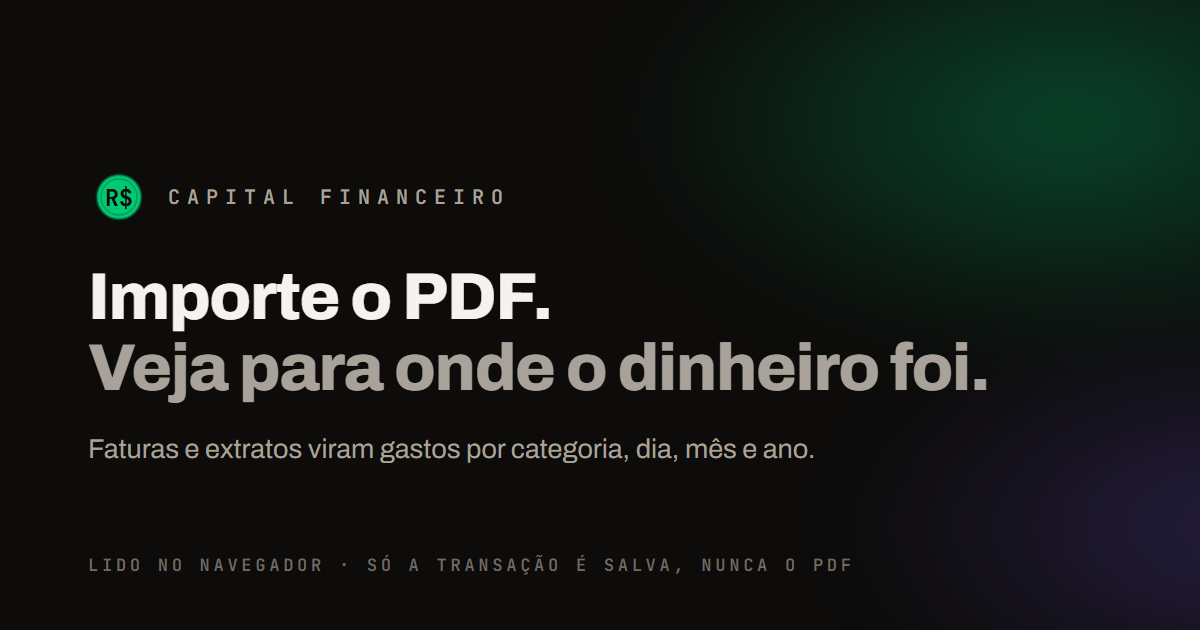
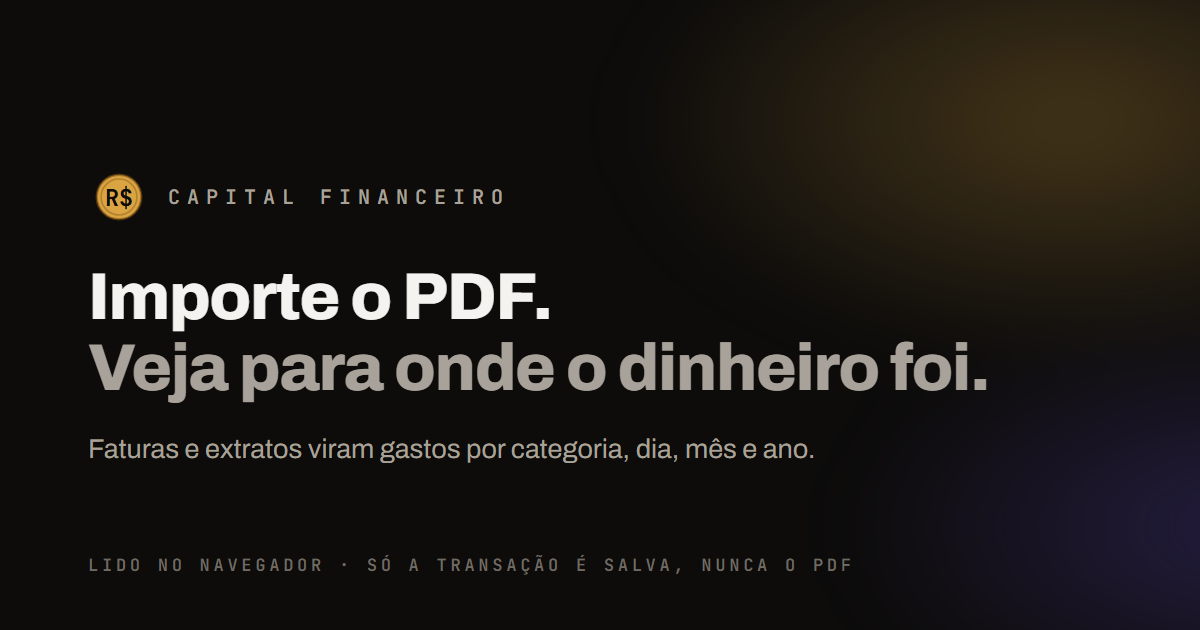
feat: paleta ambar, toasts com presenca de dialogo e login trabalhado
Cor: o verde neon sai da identidade. Nova variavel --color-marca (ambar
#d9a441 no escuro, #9a6a15 no claro) assume logotipo, favicon, moeda R$,
ponto pulsante, foco dos campos e card de compartilhamento.

--color-confere NAO virou ambar de proposito: ela carrega semantica de "o
total bate", e ambar ja era a cor de ressalva — as duas juntas fariam o
toast de sucesso parecer aviso. Ficou verde-oliva dessaturado (#6b8f4e),
que cabe no cafe sem o neon; verde=certo/vermelho=errado e leitura
aprendida e nao vale trocar. Ressalva e falha tambem foram reaquecidas.

Toasts: largura fixa de 30rem, mais respiro, titulo em Archivo e icone
maior — presenca de dialogo, como pedido. Acrescentado o unico toast que
faltava de fato: o de sair do sistema (os de apagar, criar e atualizar ja
existiam).

Login: campos com raio de 12px, mais altura, hover na borda e foco que
eleva o campo. O anel ambar do foco exigiu remover os utilitarios
focus:shadow/ring que eu mesmo tinha posto — eles sobrescreviam a regra
base do index.css e apagavam o anel.

Rodape: assinatura em corpo maior, peso semibold e cor da marca.

Changed region(s): [[0.6783, 0.0, 1.0, 0.4222], [0.0617, 0.2714, 0.1233, 0.3619]]

diff --git a/src/ui/Auth.tsx b/src/ui/Auth.tsx
@@ -134,7 +134,7 @@ export function Auth({ onAutenticado }: Props) {
               placeholder="nome e sobrenome"
               value={nome}
               onChange={(e) => setNome(e.target.value)}
-              className="w-full rounded-sm border border-carvao-700 bg-carvao-950 px-3 py-2 text-sm text-tinta outline-none focus:border-tinta-tenue"
+              className="w-full rounded-xl border border-carvao-700 bg-carvao-950 px-4 py-3 text-sm text-tinta outline-none transition-all placeholder:text-tinta-tenue hover:border-carvao-600 focus:-translate-y-px focus:border-marca"
             />
             <div>
               <input
@@ -142,7 +142,7 @@ export function Auth({ onAutenticado }: Props) {
                 placeholder="como quer ser chamado? (apelido, opcional)"
                 value={apelido}
                 onChange={(e) => setApelido(e.target.value)}
-                className="w-full rounded-sm border border-carvao-700 bg-carvao-950 px-3 py-2 text-sm text-tinta outline-none focus:border-tinta-tenue"
+                className="w-full rounded-xl border border-carvao-700 bg-carvao-950 px-4 py-3 text-sm text-tinta outline-none transition-all placeholder:text-tinta-tenue hover:border-carvao-600 focus:-translate-y-px focus:border-marca"
               />
               <p className="mt-1 px-1 text-[11px] text-tinta-tenue">
                 É assim que vamos te saudar. Se deixar em branco, usamos seu primeiro nome.
@@ -157,7 +157,7 @@ export function Auth({ onAutenticado }: Props) {
           placeholder="seu@email.com"
           value={email}
           onChange={(e) => setEmail(e.target.value)}
-          className="w-full rounded-sm border border-carvao-700 bg-carvao-950 px-3 py-2 text-sm text-tinta outline-none focus:border-tinta-tenue"
+          className="w-full rounded-xl border border-carvao-700 bg-carvao-950 px-4 py-3 text-sm text-tinta outline-none transition-all placeholder:text-tinta-tenue hover:border-carvao-600 focus:-translate-y-px focus:border-marca"
         />
         <div className="relative">
           <input
@@ -168,7 +168,7 @@ export function Auth({ onAutenticado }: Props) {
             placeholder="senha (mín. 8 caracteres)"
             value={senha}
             onChange={(e) => setSenha(e.target.value)}
-            className="w-full rounded-sm border border-carvao-700 bg-carvao-950 px-3 py-2 pr-10 text-sm text-tinta outline-none focus:border-tinta-tenue"
+            className="w-full rounded-xl border border-carvao-700 bg-carvao-950 px-4 py-3 pr-11 text-sm text-tinta outline-none transition-all placeholder:text-tinta-tenue hover:border-carvao-600 focus:-translate-y-px focus:border-marca"
           />
           <button
             type="button"
@@ -183,7 +183,7 @@ export function Auth({ onAutenticado }: Props) {
         <button
           type="submit"
           disabled={ocupado}
-          className="w-full rounded-sm bg-tinta px-4 py-2 text-sm font-medium text-carvao-950 transition-opacity hover:opacity-90 disabled:opacity-50"
+          className="w-full rounded-xl bg-tinta px-4 py-3 text-sm font-semibold text-carvao-950 shadow-lg shadow-black/20 transition-all hover:-translate-y-0.5 hover:shadow-xl hover:shadow-black/30 active:translate-y-0 disabled:translate-y-0 disabled:opacity-50 disabled:shadow-none"
         >
           {ocupado ? '…' : modo === 'entrar' ? 'Entrar' : 'Criar conta'}
         </button>
@@ -197,7 +197,7 @@ export function Auth({ onAutenticado }: Props) {
 
       <button
         onClick={comGoogle}
-        className="flex w-full items-center justify-center gap-2 rounded-sm border border-carvao-700 px-4 py-2 text-sm text-tinta transition-colors hover:bg-carvao-850"
+        className="flex w-full items-center justify-center gap-2 rounded-xl border border-carvao-700 px-4 py-3 text-sm text-tinta transition-all hover:-translate-y-0.5 hover:border-carvao-600 hover:bg-carvao-850 hover:shadow-lg hover:shadow-black/20 active:translate-y-0"
       >
         <GoogleIcon /> Continuar com o Google
       </button>
@@ -223,7 +223,7 @@ export function Auth({ onAutenticado }: Props) {
 function MoedaLogo() {
   return (
     <svg width="56" height="56" viewBox="0 0 64 64" className="drop-shadow-lg" aria-hidden>
-      <circle cx="32" cy="32" r="23" fill="var(--color-confere)" />
+      <circle cx="32" cy="32" r="23" fill="var(--color-marca)" />
       <circle cx="32" cy="32" r="23" fill="none" stroke="#065f37" strokeWidth="2.5" opacity="0.55" />
       <circle cx="32" cy="32" r="18.5" fill="none" stroke="#065f37" strokeWidth="1.6" opacity="0.4" />
       <text

diff --git a/src/App.tsx b/src/App.tsx
@@ -130,7 +130,7 @@ export default function App() {
               className="tabular flex items-center gap-2 text-[11px] uppercase tracking-[0.35em] text-tinta-tenue"
             >
               <motion.span
-                className="inline-block h-1.5 w-1.5 rounded-full bg-confere"
+                className="inline-block h-1.5 w-1.5 rounded-full bg-marca"
                 animate={{ opacity: [1, 0.3, 1], scale: [1, 0.8, 1] }}
                 transition={{ duration: 2.4, repeat: Infinity, ease: 'easeInOut' }}
               />
@@ -178,9 +178,21 @@ export default function App() {
                   setMostrarTutorial(true)
                 }}
                 onSair={async () => {
-                  await neon?.auth.signOut()
-                  setLogado(false)
-                  setUsuario(null)
+                  // Saudação pelo mesmo nome usado no cabeçalho, para a
+                  // despedida soar como continuação da conversa.
+                  const quem = comoChamar(usuario?.nome, usuario?.email)
+                  try {
+                    await neon?.auth.signOut()
+                    setLogado(false)
+                    setUsuario(null)
+                    toast.success(`Até logo, ${quem}!`, {
+                      description: 'Sua sessão foi encerrada neste navegador.',
+                    })
+                  } catch (err) {
+                    toast.error(
+                      err instanceof Error ? err.message : 'Não consegui encerrar a sessão.',
+                    )
+                  }
                 }}
               />
             )}
@@ -229,13 +241,17 @@ export default function App() {
             </p>
             <span className="h-px flex-1 bg-carvao-800" />
           </div>
-          <p className="text-center text-[11px] text-tinta-tenue">
-            <span className="tabular">© {new Date().getFullYear()}</span> · Criado por{' '}
+          <p className="flex flex-wrap items-center justify-center gap-x-2 gap-y-1 text-center text-xs text-tinta-tenue">
+            <span className="tabular">© {new Date().getFullYear()}</span>
+            <span aria-hidden>·</span>
+            <span>Criado por</span>
+            {/* A assinatura é o único nome próprio da página: ganha corpo,
+                peso e a cor da marca para não se perder no rodapé. */}
             <a
               href="https://cielio-portfolio.vercel.app/"
               target="_blank"
               rel="noopener noreferrer"
-              className="font-medium text-tinta-fraca underline decoration-carvao-600 underline-offset-4 transition-colors hover:text-tinta hover:decoration-tinta"
+              className="font-display text-base font-semibold text-marca underline decoration-marca/40 underline-offset-4 transition-all hover:decoration-marca hover:brightness-110"
             >
               Cielio Queiroz
             </a>

diff --git a/src/ui/Notificacoes.tsx b/src/ui/Notificacoes.tsx
@@ -11,10 +11,10 @@ function Icone({ tipo }: { tipo: 'ok' | 'erro' | 'aviso' | 'info' }) {
   }[tipo]
   return (
     <span
-      className="grid h-8 w-8 shrink-0 place-items-center rounded-full bg-white shadow-sm"
+      className="grid h-10 w-10 shrink-0 place-items-center rounded-full bg-white shadow-md"
       style={{ color: cfg.cor }}
     >
-      <svg viewBox="0 0 24 24" className="h-5 w-5" fill="none" stroke="currentColor" strokeWidth="2.6" strokeLinecap="round" strokeLinejoin="round">
+      <svg viewBox="0 0 24 24" className="h-6 w-6" fill="none" stroke="currentColor" strokeWidth="2.6" strokeLinecap="round" strokeLinejoin="round">
         <path d={cfg.d} />
       </svg>
     </span>
@@ -31,13 +31,16 @@ export function Notificacoes() {
       offset={28}
       gap={12}
       duration={4500}
+      // Largura fixa e generosa: o toast ocupa o eixo central como um
+      // diálogo, em vez de encolher para o tamanho do texto.
+      style={{ width: 'min(30rem, calc(100vw - 2rem))' }}
       toastOptions={{
         unstyled: true,
         classNames: {
           toast:
-            'flex w-full items-center gap-3 rounded-2xl px-5 py-4 shadow-2xl shadow-black/40 ring-1 ring-black/10',
-          title: 'font-sans text-sm font-bold leading-snug',
-          description: 'font-sans text-xs font-medium leading-snug opacity-90',
+            'flex w-full items-center gap-4 rounded-2xl px-6 py-5 shadow-2xl shadow-black/50 ring-1 ring-black/15',
+          title: 'font-display text-[15px] font-bold leading-snug tracking-tight',
+          description: 'font-sans text-[13px] font-medium leading-snug opacity-90',
           icon: 'shrink-0',
           actionButton: 'rounded-lg bg-black/20 px-2.5 py-1 text-xs font-semibold',
           cancelButton: 'text-xs opacity-80',

diff --git a/src/index.css b/src/index.css
@@ -21,9 +21,17 @@
   --color-tinta-fraca: #a8a29a;
   --color-tinta-tenue: #6f6a62;
 
-  --color-confere: #00c974;
-  --color-ressalva: #f5a623;
-  --color-falha: #ff4d4f;
+  /* Marca — âmbar/dourado. Cor de identidade (logotipo, favicon, foco,
+     ponto pulsante). É separada de --color-confere de propósito: aquela
+     carrega SEMÂNTICA de "o total bate", e misturar as duas faria o toast
+     de sucesso parecer aviso. */
+  --color-marca: #d9a441;
+
+  /* Estados. O verde de "confere" ficou dessaturado para caber no café —
+     verde=certo/vermelho=errado é leitura aprendida e não vale trocar. */
+  --color-confere: #6b8f4e;
+  --color-ressalva: #c8862a;
+  --color-falha: #d64545;
 
   /* Partículas do fundo animado. Variável própria porque o fundo não deve
      seguir a cor de "confere" (verde de sucesso) — são coisas diferentes, e
@@ -51,6 +59,12 @@
 
   --color-particula: #6b5744; /* cafe sobre o creme */
   --particula-alfa: 0.30;
+
+  /* Sobre o creme, os tons claros não têm contraste: escurecem no tema claro. */
+  --color-marca: #9a6a15;
+  --color-confere: #4f6b39;
+  --color-ressalva: #9c6415;
+  --color-falha: #b3323a;
   color-scheme: light;
 }
 
@@ -107,8 +121,8 @@ body {
   textarea:focus,
   select:focus {
     outline: none;
-    border-color: color-mix(in oklab, var(--color-confere) 55%, var(--color-carvao-600));
-    box-shadow: 0 0 0 3px color-mix(in oklab, var(--color-confere) 20%, transparent);
+    border-color: color-mix(in oklab, var(--color-marca) 60%, var(--color-carvao-600));
+    box-shadow: 0 0 0 3px color-mix(in oklab, var(--color-marca) 22%, transparent);
   }
 
   /* Clicáveis ganham uma transição suave para o hover ficar gostoso. */

diff --git a/scripts/og-card.html b/scripts/og-card.html
@@ -25,7 +25,7 @@
       .brilho {
         position: absolute; inset: -20%;
         background:
-          radial-gradient(38% 38% at 78% 28%, rgba(0, 201, 116, 0.30), transparent 70%),
+          radial-gradient(38% 38% at 78% 28%, rgba(217, 164, 65, 0.28), transparent 70%),
           radial-gradient(34% 34% at 88% 74%, rgba(124, 92, 255, 0.22), transparent 70%);
         filter: blur(40px);
       }
@@ -63,9 +63,9 @@
     <div class="conteudo">
       <div class="marca">
         <svg width="62" height="62" viewBox="0 0 64 64">
-          <circle cx="32" cy="32" r="23" fill="#00c974" />
-          <circle cx="32" cy="32" r="23" fill="none" stroke="#065f37" stroke-width="2.5" opacity="0.55" />
-          <circle cx="32" cy="32" r="18.5" fill="none" stroke="#065f37" stroke-width="1.6" opacity="0.4" />
+          <circle cx="32" cy="32" r="23" fill="#d9a441" />
+          <circle cx="32" cy="32" r="23" fill="none" stroke="#7a4e12" stroke-width="2.5" opacity="0.55" />
+          <circle cx="32" cy="32" r="18.5" fill="none" stroke="#7a4e12" stroke-width="1.6" opacity="0.4" />
           <text x="32" y="41.5" text-anchor="middle" font-family="'JetBrains Mono', monospace"
                 font-weight="800" font-size="24" fill="#0d0c0b">R$</text>
         </svg>

diff --git a/src/ui/Tutorial.tsx b/src/ui/Tutorial.tsx
@@ -132,7 +132,7 @@ export function Tutorial({ nome, onFechar }: Props) {
             {ultimo ? (
               <button
                 onClick={onFechar}
-                className="rounded-lg bg-confere px-4 py-1.5 text-sm font-medium text-carvao-950 transition-opacity hover:opacity-90"
+                className="rounded-lg bg-marca px-4 py-1.5 text-sm font-medium text-carvao-950 transition-opacity hover:opacity-90"
               >
                 Começar!
               </button>

diff --git a/src/ui/Marca.tsx b/src/ui/Marca.tsx
@@ -39,7 +39,7 @@ export function Marca({ variante = 'cabecalho' }: Props) {
         <motion.span
           key={i}
           aria-hidden
-          className={i < INICIO_SEGUNDA ? 'text-tinta' : 'text-confere'}
+          className={i < INICIO_SEGUNDA ? 'text-tinta' : 'text-marca'}
           // O espaço não pode colapsar no flex: damos largura explícita.
           style={letra === ' ' ? { width: '0.3em' } : undefined}
           variants={{ parado: { y: 0 }, salto: { y: -7 } }}
